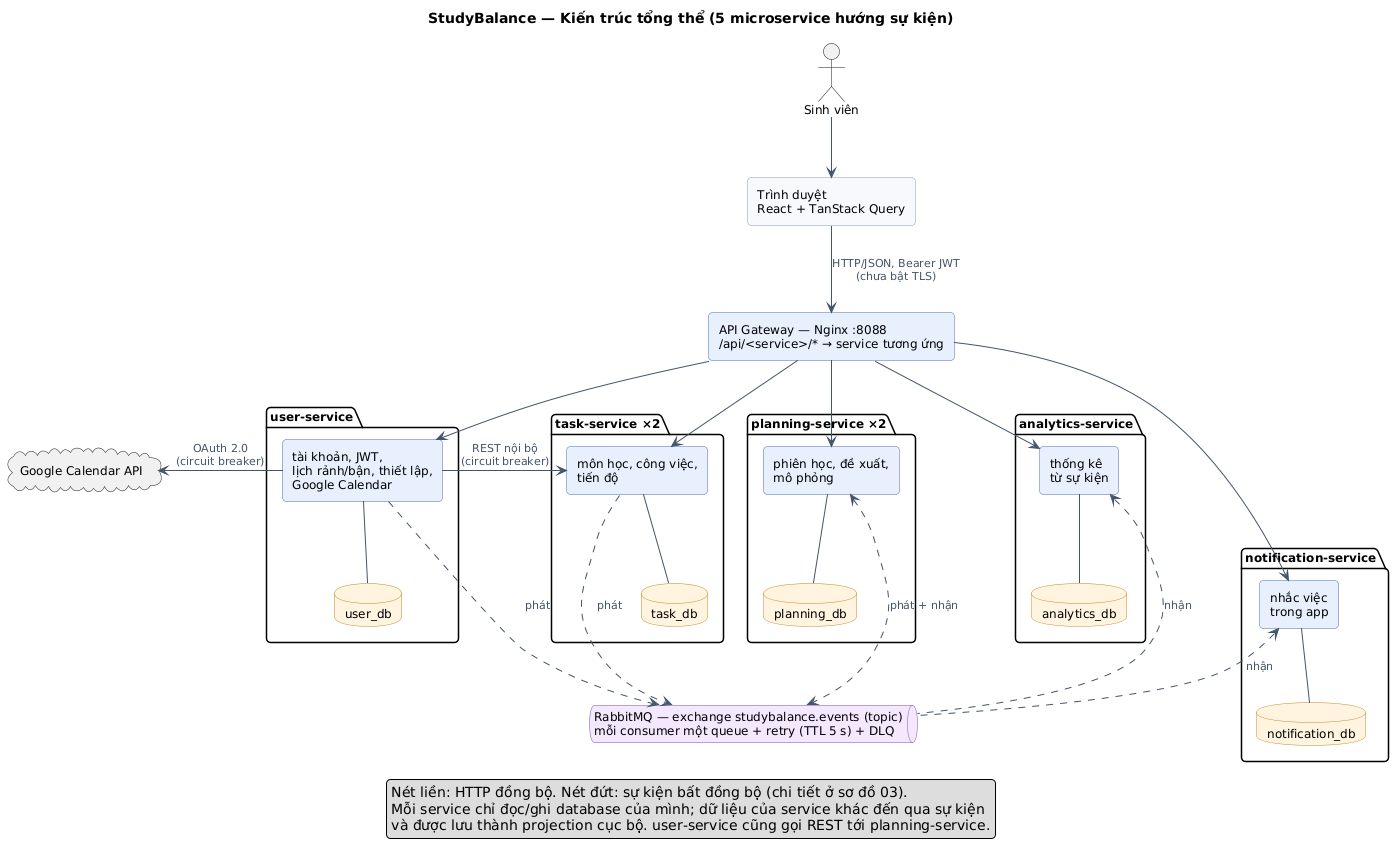
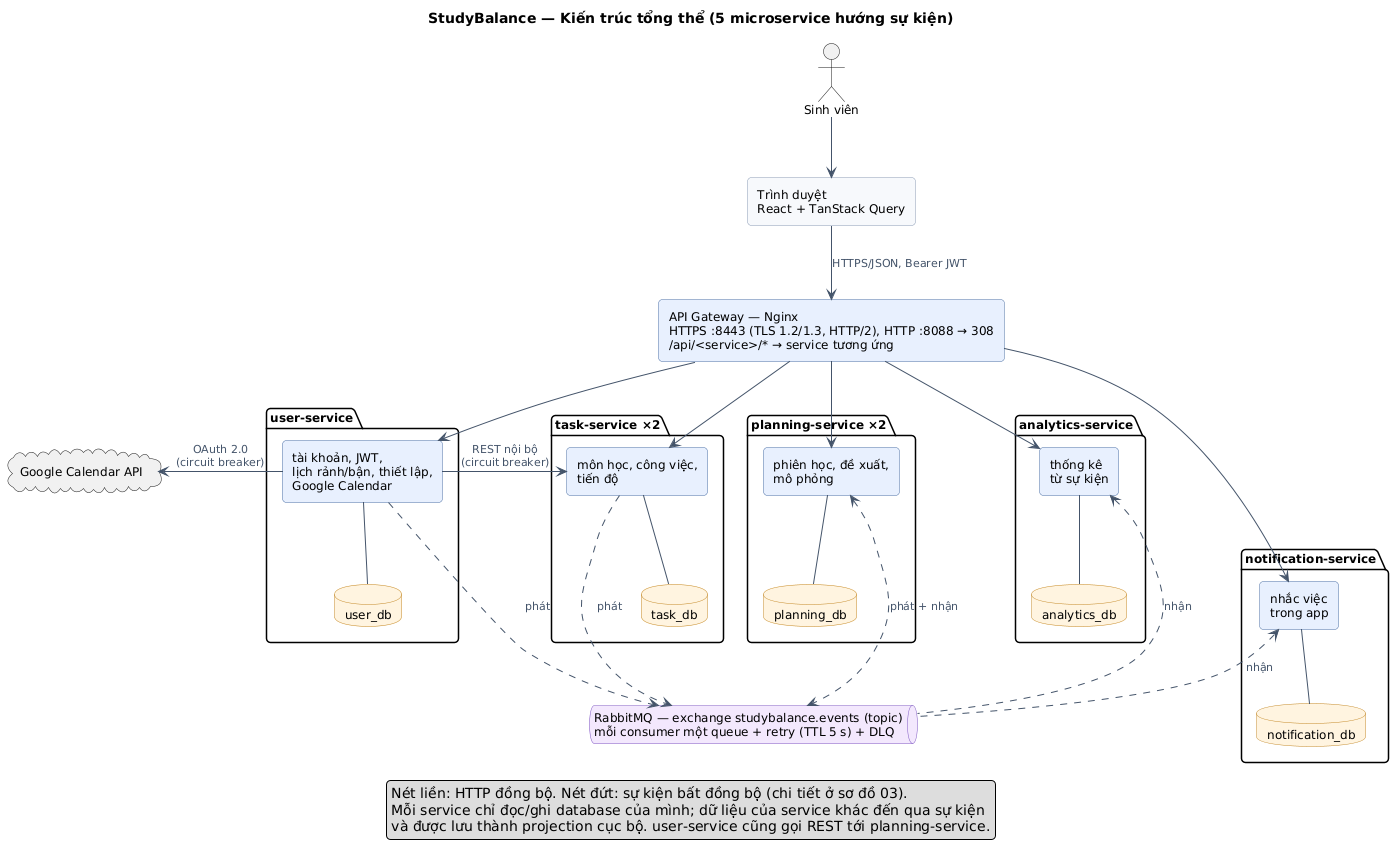
Serve the gateway over HTTPS with a generated local certificate
- gateway-cert one-shot container creates a self-signed certificate
- Nginx: TLS 1.2/1.3, HTTP/2, HTTP port redirects with 308
- Refresh cookie Secure by default; OAuth callbacks are not logged on either port
- E2E scripts default to HTTPS and trust the local certificate
- Docs and diagrams updated

diff --git a/docs/google-calendar.md b/docs/google-calendar.md
@@ -37,10 +37,13 @@ Trong **Clients → Create client**:
 - Authorized redirect URIs, nhập đúng:
 
 ```text
-http://localhost:8088/api/user/integrations/google/callback
+https://localhost:8443/api/user/integrations/google/callback
+https://localhost:8443/api/user/auth/google/callback
 ```
 
-Đây là luồng OAuth backend, không cần Authorized JavaScript origins. Nếu đổi cổng/domain, cập nhật cả redirect URI trên Google và `APP_PUBLIC_URL`. Khi thử kết nối phải mở đúng `http://localhost:8088`, không đổi sang `127.0.0.1` giữa luồng vì cookie bảo vệ OAuth được gắn với host.
+Đây là luồng OAuth backend, không cần Authorized JavaScript origins. Nếu đổi cổng/domain, cập nhật cả redirect URI trên Google và `APP_PUBLIC_URL`. Khi thử kết nối phải mở đúng `https://localhost:8443`, không đổi sang `127.0.0.1` giữa luồng vì cookie bảo vệ OAuth được gắn với host.
+
+Cài đặt cũ dùng `http://localhost:8088` vẫn chạy: cổng HTTP chuyển hướng (308) sang HTTPS, giữ nguyên đường dẫn và query, nên callback cũ vẫn tới được user-service. Khi chuyển hẳn sang HTTPS, thêm hai URI ở trên vào Google rồi đổi `APP_PUBLIC_URL`.
 
 Lưu Client ID và Client Secret ở nơi riêng tư. Không đưa chúng vào frontend, ảnh chụp công khai, commit hoặc chat.
 
@@ -51,7 +54,7 @@ Mở `.env` ở thư mục gốc và điền:
 ```dotenv
 GOOGLE_CLIENT_ID=client-id-do-google-cap.apps.googleusercontent.com
 GOOGLE_CLIENT_SECRET=client-secret-do-google-cap
-APP_PUBLIC_URL=http://localhost:8088
+APP_PUBLIC_URL=https://localhost:8443
 ```
 
 `GOOGLE_TOKEN_ENCRYPTION_KEY` đã được tạo ngẫu nhiên cho môi trường local trong lần triển khai tính năng. Giữ nguyên khóa này; đổi/mất khóa sẽ không đọc được refresh token đang lưu. File `.env` được bỏ qua khi commit và khi build Docker.
@@ -95,7 +98,7 @@ Nếu chạy bằng npm thay vì Docker, điền các biến trên vào `service
 - Kết nối/sync/ngắt kết nối được khóa theo user trong MySQL để tránh hai worker ghi đồng thời. Event ID được lưu trước khi gọi Google để retry không tạo bản sao.
 - Worker giao tiếp với planning/task qua API nội bộ và token của chính user, không đọc database service khác.
 - Danh sách lịch có phân trang; tối đa chọn 20 lịch. Khoảng bận giao nhau được gộp, sự kiện cả ngày và qua nửa đêm được tách theo ngày Việt Nam.
-- Chưa dùng webhook: không cần domain HTTPS công khai để thử local. Khi triển khai production dùng HTTPS, đặt `COOKIE_SECURE=true`, và cấu hình lại OAuth redirect URI.
+- Chưa dùng webhook: không cần domain HTTPS công khai để thử local. Gateway local đã dùng HTTPS với chứng chỉ tự ký và `COOKIE_SECURE=true` (xem README). Khi triển khai production, dùng chứng chỉ thật cho domain và cấu hình lại OAuth redirect URI.
 - Ở chế độ External/Testing, refresh token cho các scope Calendar thường hết hạn sau 7 ngày; kết nối lại khi app yêu cầu. Khi mở cho người dùng ngoài danh sách test, cần hoàn tất quy trình xuất bản/xác minh tương ứng của Google.
 - Chưa thể xác minh với tài khoản Google thật nếu chưa có OAuth Client và bước cấp quyền của chủ tài khoản.
 

diff --git a/README.md b/README.md
@@ -43,7 +43,9 @@ cp .env.example .env
 docker compose up --build -d
 ```
 
-Mở http://localhost:8080, kiểm tra http://localhost:8080/api/user/health. Nếu cổng 8080 đã bị dùng, đặt `GATEWAY_PORT` khác trong `.env`. Compose chỉ đánh dấu service healthy khi `/ready` xác nhận được DB và broker. RabbitMQ Management: http://localhost:15672, tài khoản theo `.env`.
+Mở https://localhost:8443, kiểm tra https://localhost:8443/api/user/health. Cổng HTTP (`GATEWAY_PORT`, mặc định 8080) chỉ chuyển hướng sang HTTPS (`GATEWAY_HTTPS_PORT`, mặc định 8443); đổi trong `.env` nếu cổng đã bị dùng.
+
+**TLS:** lần đầu `docker compose up`, container `gateway-cert` tạo chứng chỉ tự ký cho `localhost`, `127.0.0.1`, `::1` trong `infrastructure/nginx/certs/` (không commit). Gateway chỉ nhận TLS 1.2/1.3, bật HTTP/2; cookie refresh có `Secure`. Trình duyệt sẽ cảnh báo chứng chỉ chưa tin cậy. Để bỏ cảnh báo: tin cậy file `tls.crt` (macOS: `sudo security add-trusted-cert -d -r trustRoot -k /Library/Keychains/System.keychain infrastructure/nginx/certs/tls.crt`), hoặc tạo chứng chỉ bằng `mkcert localhost 127.0.0.1 ::1`, đổi tên thành `tls.crt`/`tls.key` trong thư mục trên rồi `docker compose restart gateway`. Compose chỉ đánh dấu service healthy khi `/ready` xác nhận được DB và broker. RabbitMQ Management: http://localhost:15672, tài khoản theo `.env`.
 
 ```sh
 docker compose logs -f
@@ -90,7 +92,7 @@ npm run test:e2e          # luồng xuyên service qua gateway
 npm run test:outage       # tắt/bật RabbitMQ trong lúc ghi dữ liệu
 ```
 
-Đặt `E2E_BASE_URL` nếu gateway không ở http://localhost:8080. `test:e2e` dùng RabbitMQ Management (cổng 15672) để gửi một sự kiện hai lần, kiểm tra inbox chỉ xử lý một lần. `test:outage` gọi `docker compose stop/start rabbitmq`.
+Đặt `E2E_BASE_URL` nếu gateway không ở https://localhost:8443; hai lệnh test tự tin cậy chứng chỉ local qua `NODE_EXTRA_CA_CERTS`. `test:e2e` dùng RabbitMQ Management (cổng 15672) để gửi một sự kiện hai lần, kiểm tra inbox chỉ xử lý một lần. `test:outage` gọi `docker compose stop/start rabbitmq`.
 
 Chạy riêng: `npm run dev -w @studybalance/user-service` hoặc `npm run dev -w @studybalance/frontend` (cần build `packages/*` trước: `npm run build:packages`).
 

diff --git a/docs/test-results/2026-11-10-tls.md b/docs/test-results/2026-11-10-tls.md
@@ -1,0 +1,20 @@
+# Kết quả kiểm thử TLS ở gateway — 10/11/2026
+
+Môi trường: Docker Compose, Nginx 1.30 (stable-alpine), chứng chỉ tự ký do `gateway-cert` tạo. Cách cấu hình: [README](../../README.md#chạy-toàn-bộ-bằng-docker).
+
+| # | Kịch bản | Kết quả |
+|---|---|---|
+| 1 | `gateway-cert` lần đầu tạo chứng chỉ; chạy lại thì giữ nguyên | Đạt. RSA 2048, SHA-256, SAN `localhost`, `127.0.0.1`, `::1`, hạn 825 ngày |
+| 2 | `curl --cacert tls.crt https://localhost:8443/api/user/health` | 200, HTTP/2 |
+| 3 | Phiên bản TLS (`openssl s_client`) | TLS 1.1 bị từ chối; TLS 1.2 (ECDHE-RSA-AES256-GCM-SHA384) và TLS 1.3 (TLS_AES_256_GCM_SHA384) đạt |
+| 4 | Client không tin cậy chứng chỉ | Bị từ chối (đúng với chứng chỉ tự ký) |
+| 5 | `http://localhost:8088/...?x=1` và `POST` qua HTTP | 308 sang `https://localhost:8443/...`, giữ đường dẫn, query và phương thức |
+| 6 | Cookie refresh khi đăng ký qua HTTPS | `HttpOnly; Secure; SameSite=Strict; Path=/api/user/auth` |
+| 7 | `/api/task/metrics` qua HTTPS | 404 (vẫn chặn) |
+| 8 | Callback OAuth qua HTTP và HTTPS có `code` | Chuyển hướng/xử lý bình thường; 0 dòng log gateway chứa `code` |
+| 9 | `npm run test:e2e` qua HTTPS (tin cậy chứng chỉ bằng `NODE_EXTRA_CA_CERTS`) | 15/15 bước đạt |
+| 10 | `npm run test:outage` qua HTTPS | Đạt |
+
+Phát hiện khi kiểm thử và đã sửa: server HTTP mới (chỉ chuyển hướng) ban đầu ghi access log cho cả callback OAuth, làm lộ authorization code của redirect URI cũ. Đã tắt log cho hai đường callback ở server này.
+
+Chưa làm: trình duyệt vẫn cảnh báo chứng chỉ cho đến khi người dùng tin cậy `tls.crt` hoặc dùng mkcert. TLS chỉ có ở gateway; giữa gateway và các service, với MySQL và RabbitMQ trong mạng Docker vẫn là kết nối thường, trừ replication MySQL đã dùng TLS.

diff --git a/docs/api/README.md b/docs/api/README.md
@@ -1,6 +1,6 @@
 # StudyBalance API
 
-Tất cả route đi qua gateway: `/api/<service>/…` (Nginx cổng `GATEWAY_PORT`, hoặc Vite proxy khi dev). Ví dụ `POST /api/task/tasks`.
+Tất cả route đi qua gateway: `/api/<service>/…` (Nginx HTTPS cổng `GATEWAY_HTTPS_PORT`, mặc định https://localhost:8443; cổng HTTP chỉ chuyển hướng. Khi dev dùng Vite proxy). Ví dụ `POST /api/task/tasks`.
 
 ## Quy ước chung
 
